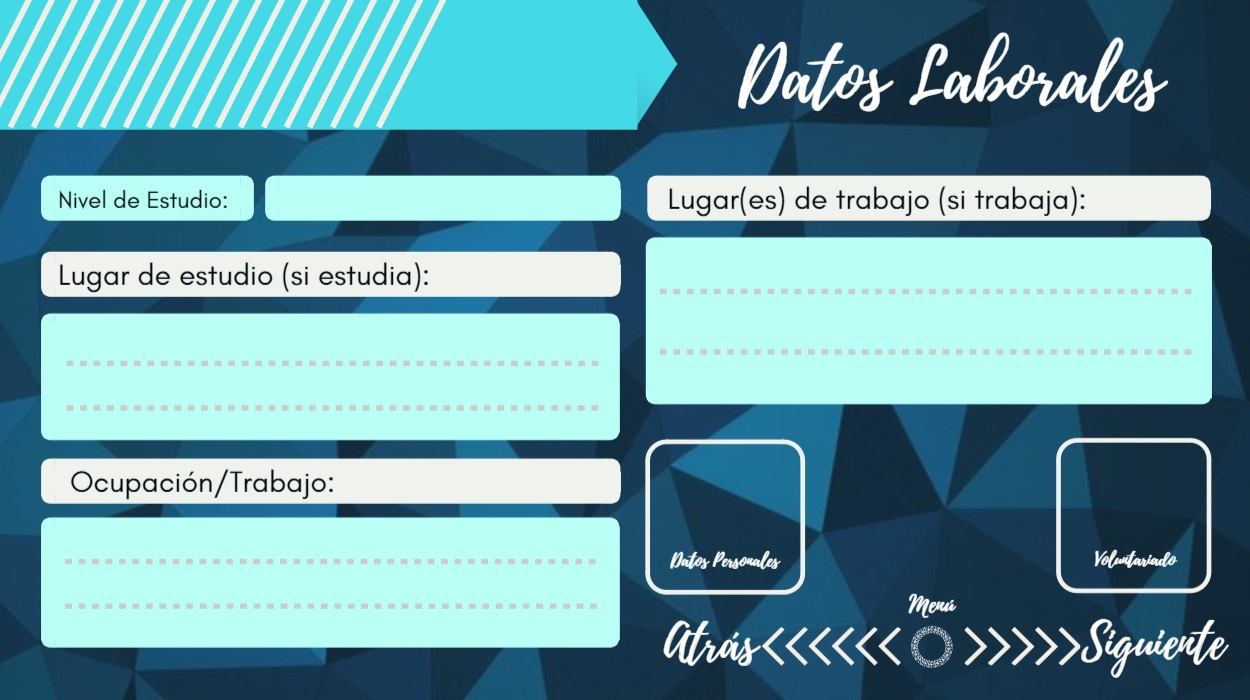
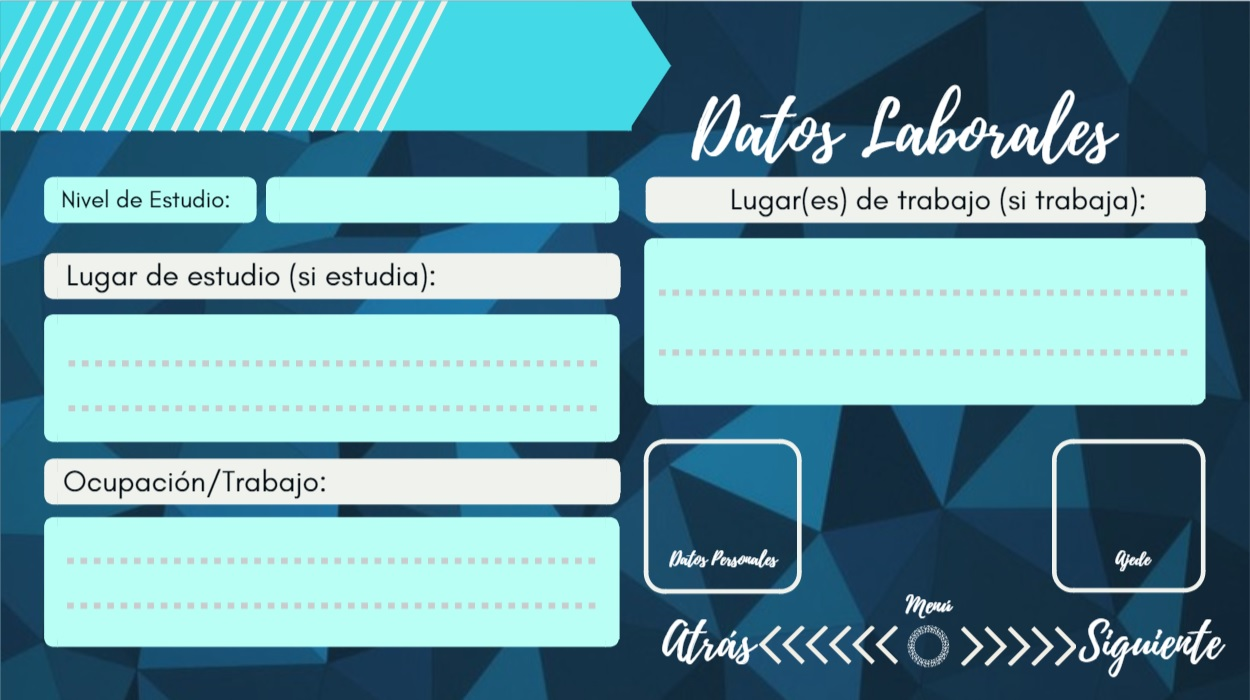
cambios pequeños en el frame de datos laborales de agregar asociado

diff --git a/SBDajede/src/interfaz/inicio_login.java b/SBDajede/src/interfaz/inicio_login.java
@@ -157,7 +157,7 @@ public class inicio_login extends javax.swing.JFrame {
             }
         });
         jpinicio.add(btnsiguiente);
-        btnsiguiente.setBounds(1050, 530, 98, 82);
+        btnsiguiente.setBounds(1050, 530, 103, 79);
 
         lbinicio.setIcon(new javax.swing.ImageIcon(getClass().getResource("/fondos/iniciotam2.jpg"))); // NOI18N
         lbinicio.setText("jLabel1");
@@ -180,7 +180,6 @@ public class inicio_login extends javax.swing.JFrame {
 
         PSTcontrasenia.setFont(new java.awt.Font("Yu Gothic UI Light", 1, 18)); // NOI18N
         PSTcontrasenia.setForeground(new java.awt.Color(0, 255, 255));
-        PSTcontrasenia.setText("jPasswordField1");
         PSTcontrasenia.setBorder(null);
         PSTcontrasenia.addKeyListener(new java.awt.event.KeyAdapter() {
             public void keyPressed(java.awt.event.KeyEvent evt) {
@@ -215,7 +214,7 @@ public class inicio_login extends javax.swing.JFrame {
             }
         });
         jplogin.add(btningresar);
-        btningresar.setBounds(630, 380, 98, 110);
+        btningresar.setBounds(630, 380, 103, 110);
 
         btncomite.setIcon(new javax.swing.ImageIcon(getClass().getResource("/iconos/login/icons8_User_Groups_70px.png"))); // NOI18N
         btncomite.setMaximumSize(new java.awt.Dimension(130, 130));

diff --git a/SBDajede/src/interfaz/agregarjf.java b/SBDajede/src/interfaz/agregarjf.java
@@ -1512,7 +1512,7 @@ public class agregarjf extends javax.swing.JFrame {
     private void btnsiguientevoluActionPerformed(java.awt.event.ActionEvent evt) {//GEN-FIRST:event_btnsiguientevoluActionPerformed
         //slider.setPanelSlider(jpvoluntariado, RSPanelsSlider.DIRECT.LEFT);
         if(verificarDatosLaborales())
-            slider.setPanelSlider(jpinfomed, RSPanelsSlider.DIRECT.LEFT);
+            slider.setPanelSlider(jpbeca, RSPanelsSlider.DIRECT.LEFT);
     }//GEN-LAST:event_btnsiguientevoluActionPerformed
     private void btnminimizarActionPerformed(java.awt.event.ActionEvent evt) {//GEN-FIRST:event_btnminimizarActionPerformed
         this.setExtendedState(ICONIFIED);
